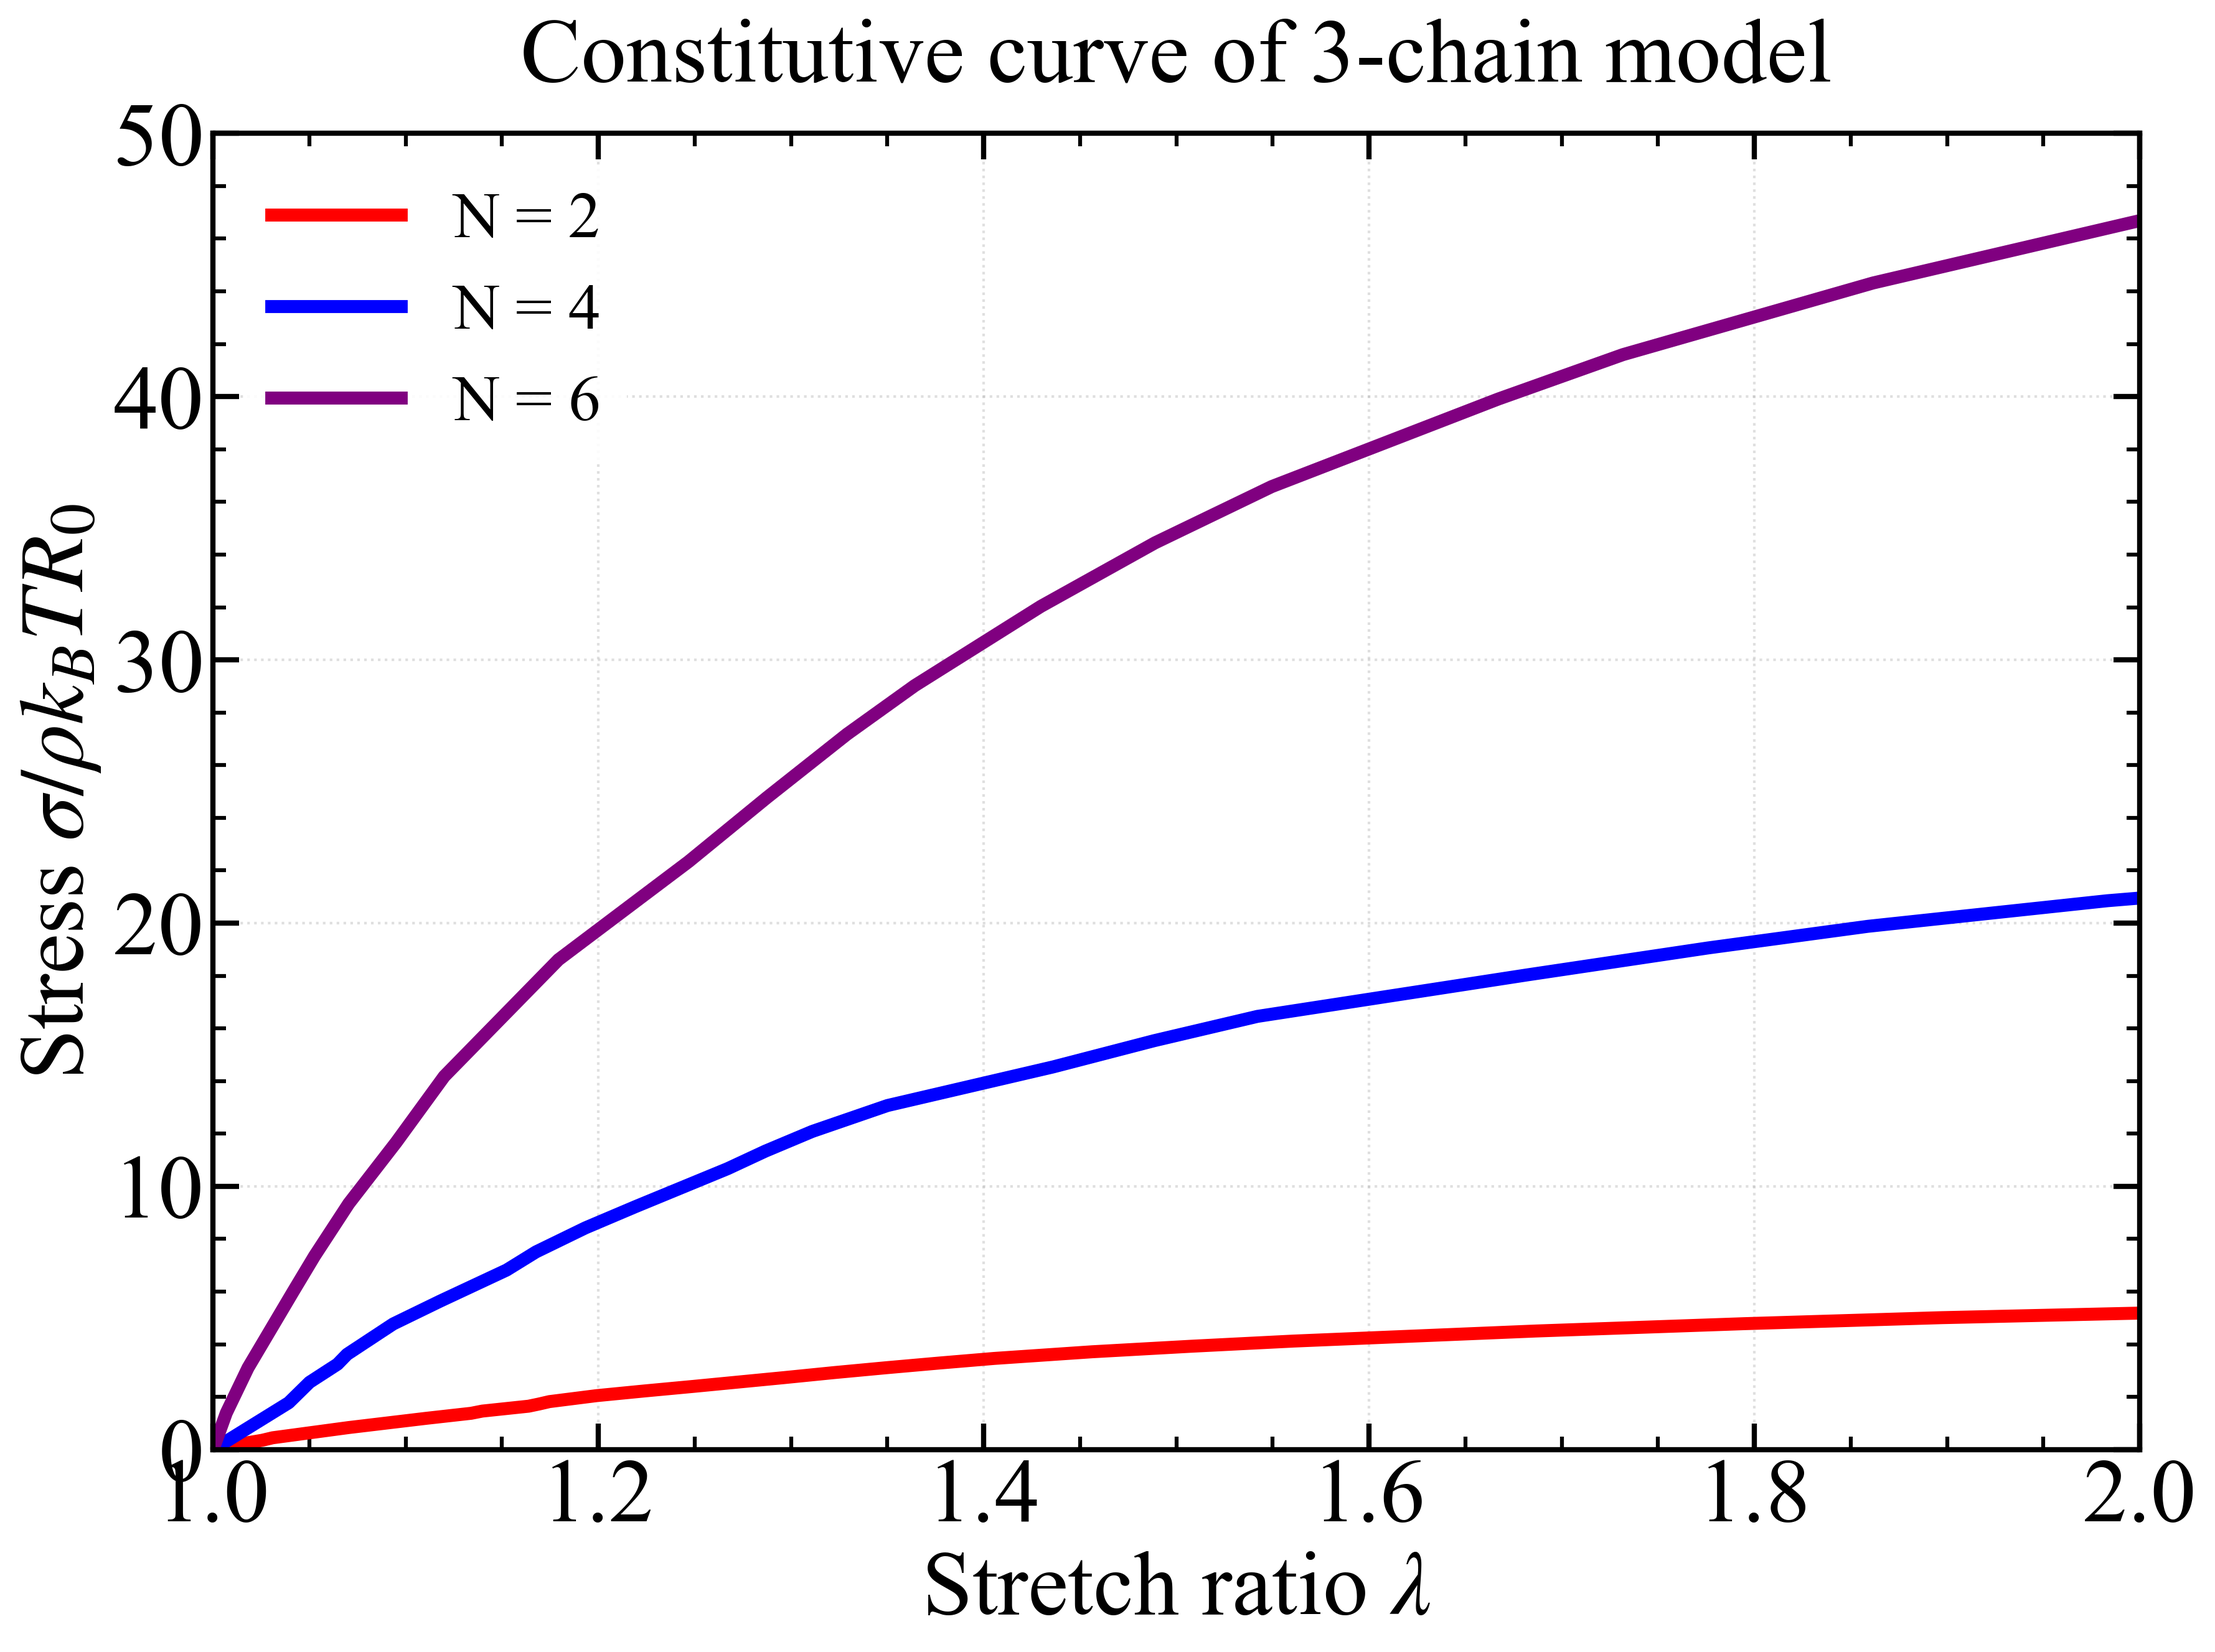
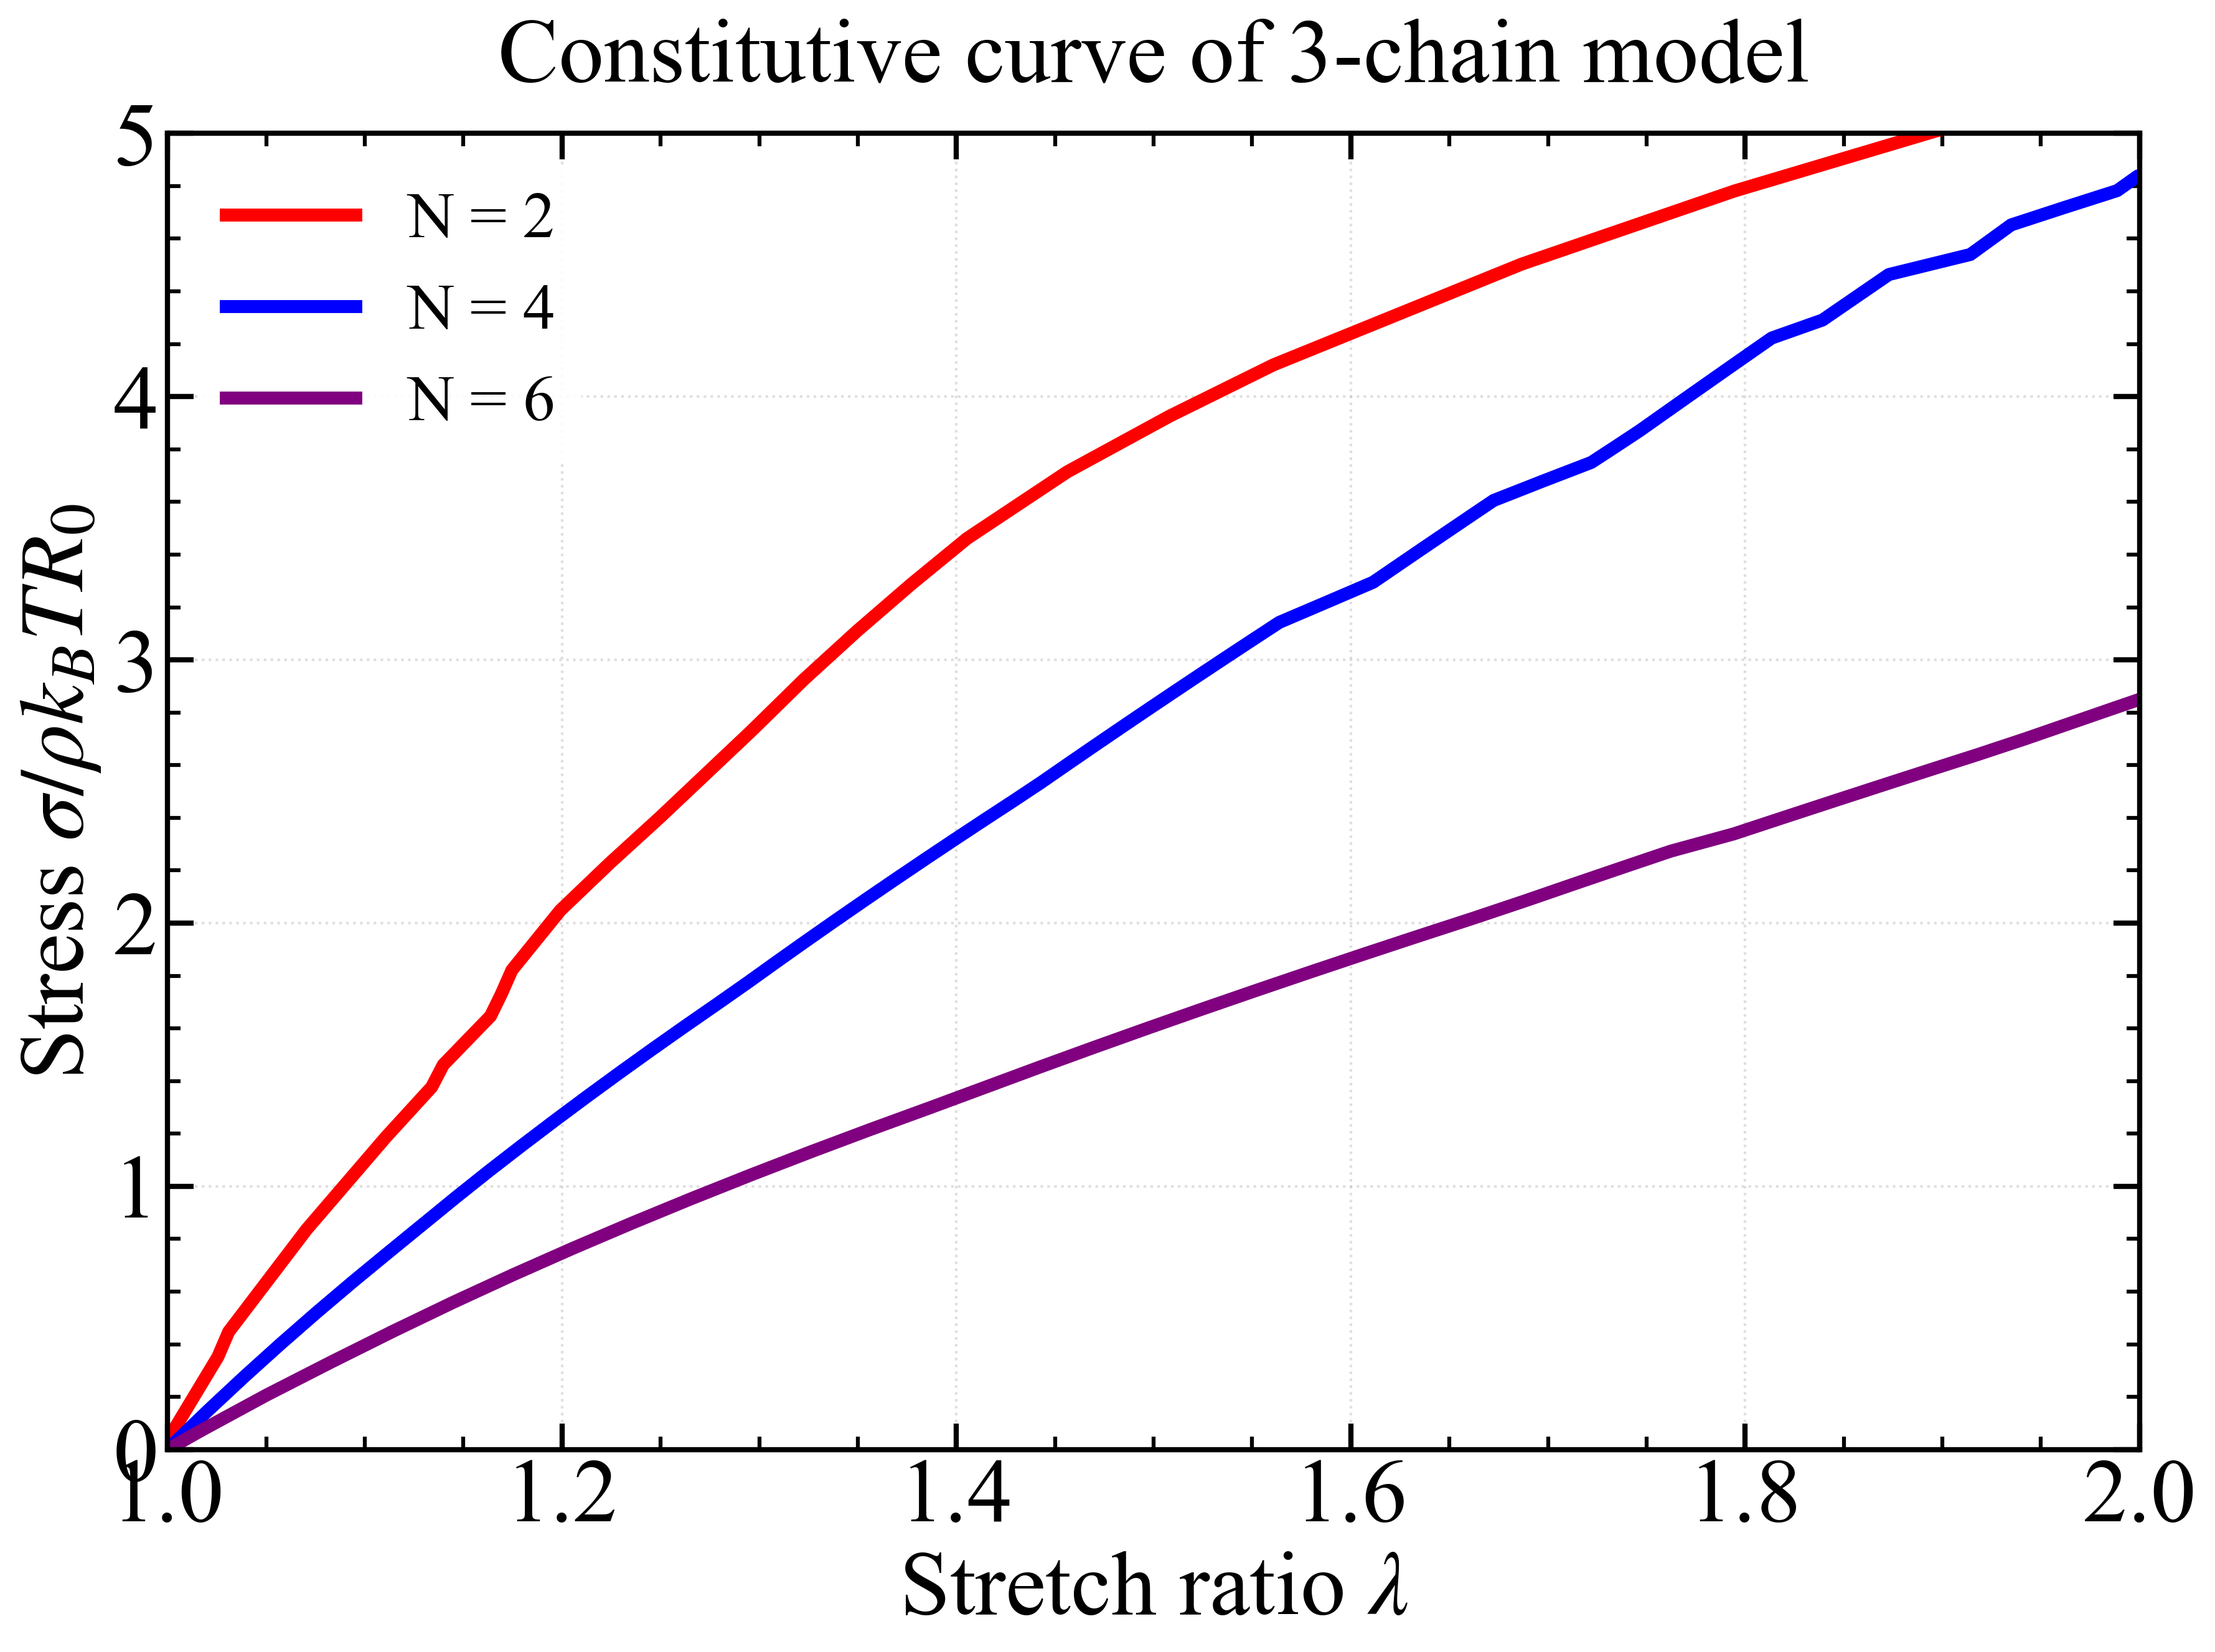
新修改

diff --git a/opt+R/Rand_xi/Gibbs_Optimization_results/100_chains_IMS/Stress_compare.py b/opt+R/Rand_xi/Gibbs_Optimization_results/100_chains_IMS/Stress_compare.py
@@ -175,13 +175,13 @@ def create_visualization(save_dir):
     # 第2组
     valid_mask2 = ~np.isnan(f2_vals)
     if np.any(valid_mask2):
-        lambda_2, sigma2 = StressOptimization(2*R0, r2_vals[valid_mask2], f2_vals[valid_mask2])
-    ax.plot(lambda_2, 2*sigma2, color='blue', linewidth=lines_linewidth, label='N = 4', zorder=2)
+        lambda_2, sigma2 = StressOptimization(R0, r2_vals[valid_mask2], f2_vals[valid_mask2])
+    ax.plot(lambda_2, sigma2, color='blue', linewidth=lines_linewidth, label='N = 4', zorder=2)
     # 第3组
     valid_mask3 = ~np.isnan(f3_vals)
     if np.any(valid_mask3):
-        lambda_3, sigma3 = StressOptimization(3*R0, r3_vals[valid_mask3], f3_vals[valid_mask3])
-    ax.plot(lambda_3, 3*sigma3, color='purple', linewidth=lines_linewidth, label='N = 6', zorder=2)
+        lambda_3, sigma3 = StressOptimization(R0, r3_vals[valid_mask3], f3_vals[valid_mask3])
+    ax.plot(lambda_3, sigma3, color='purple', linewidth=lines_linewidth, label='N = 6', zorder=2)
 
     # 设置标签和标题
     ax.set_xlabel('Stretch ratio $\lambda$', fontsize=label_fontsize)
@@ -198,7 +198,7 @@ def create_visualization(save_dir):
     
     # 设置坐标轴范围
     ax.set_xlim(1.0, 2.0)
-    ax.set_ylim(0.0, 50.0)
+    ax.set_ylim(0.0, 5.0)
     
     # 设置刻度参数
     ax.tick_params(axis='both', which='major', 

diff --git a/README.md b/README.md
@@ -1,0 +1,1 @@
+Add a README.md
